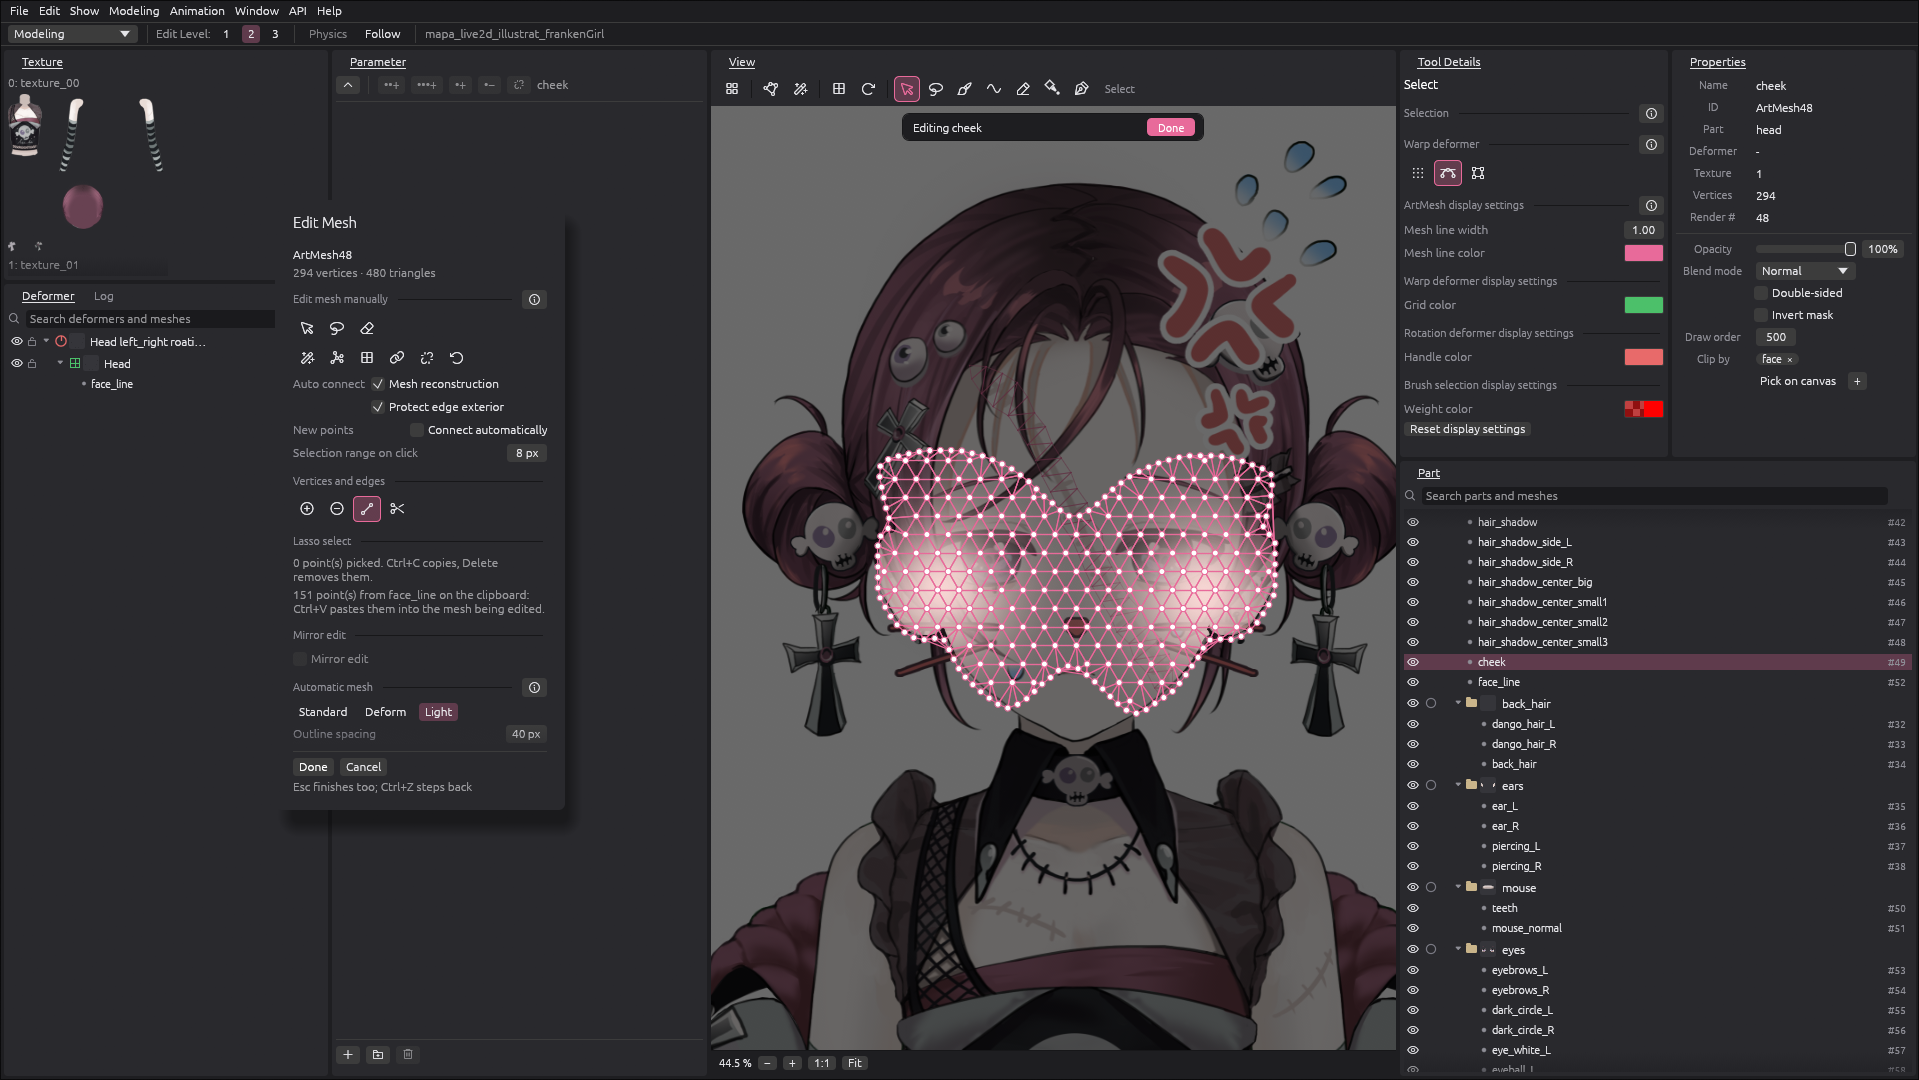
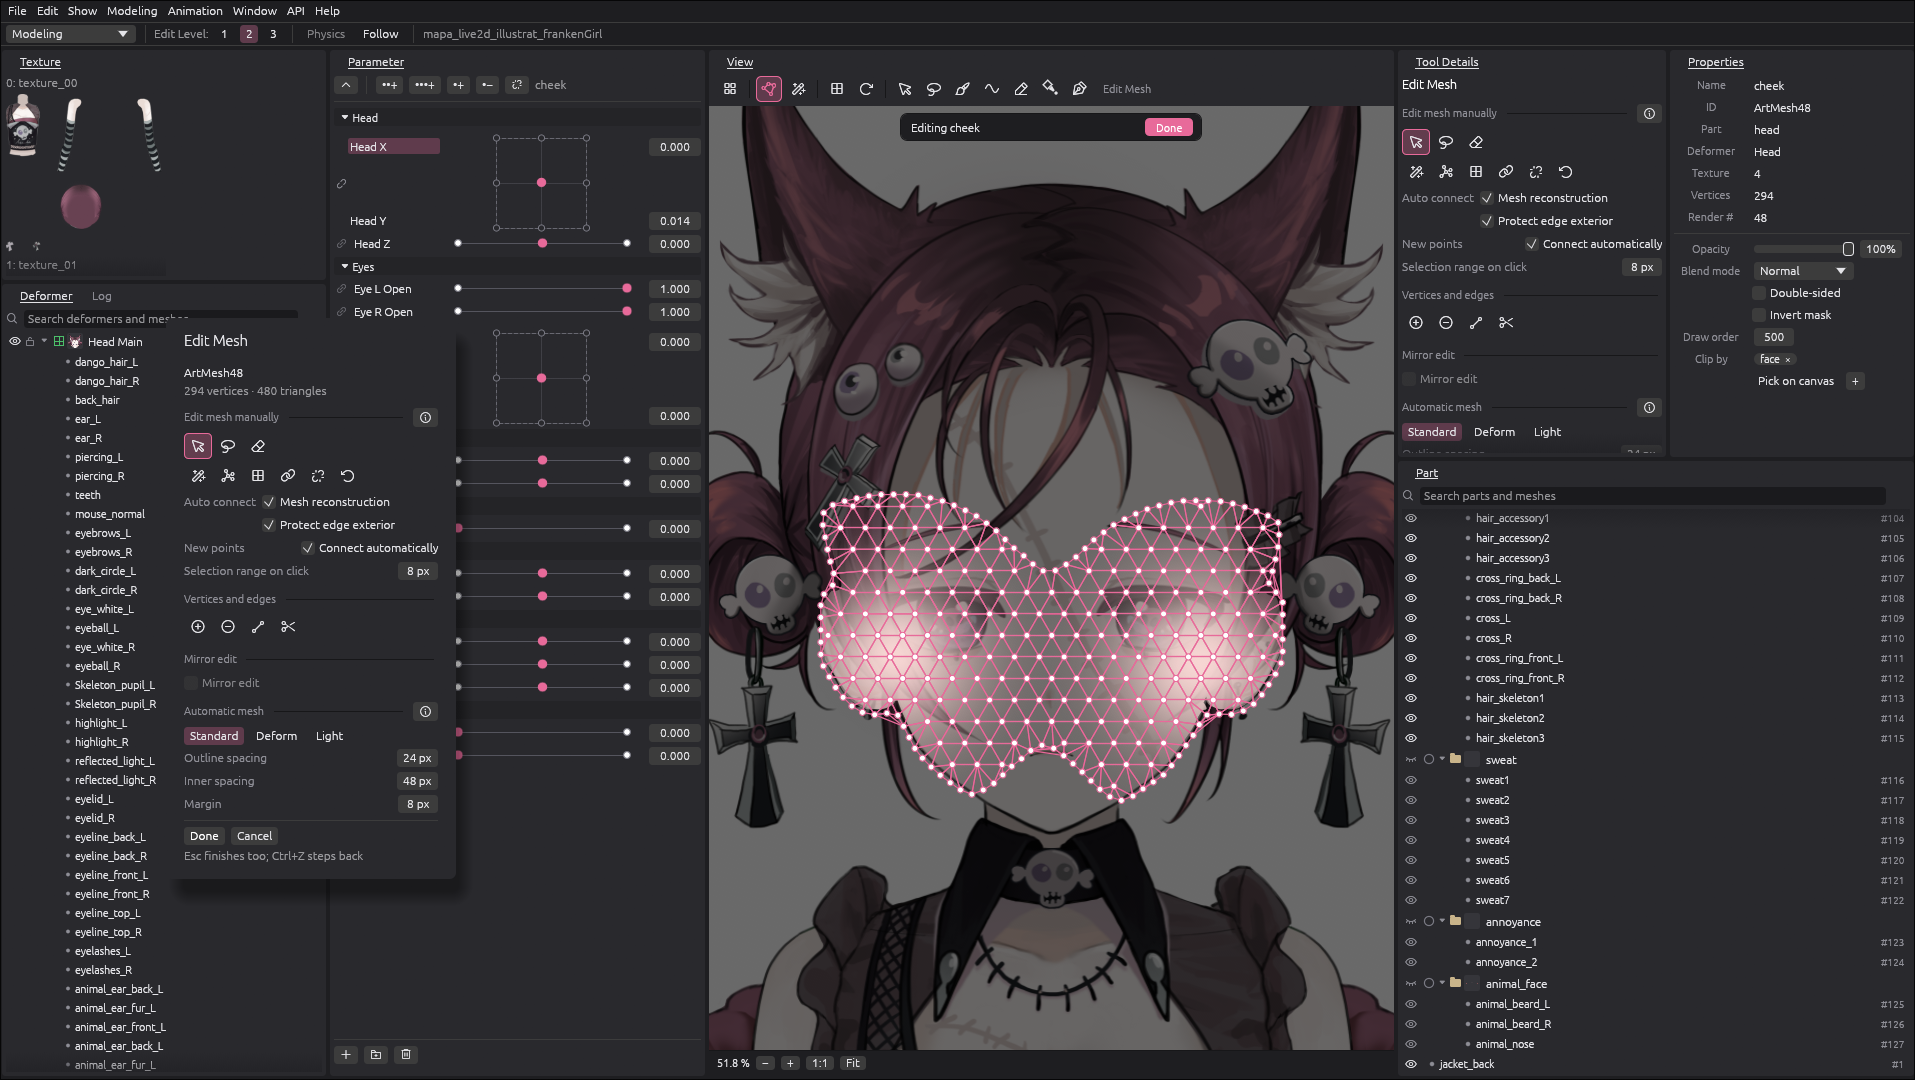
docs: retaken hero, Mesh Edit and rigging screenshots

diff --git a/README.md b/README.md
@@ -23,8 +23,8 @@ runs in VTube Studio. On Windows, macOS and Linux.
 </div>
 
 <p align="center">
-  <img src="docs/media/hero.png" alt="The Ayatsuri2D editor with a model being rigged: the face mesh under a head warp deformer, with the deformer tree and parts" width="900">
-  <br>A model in the editor: mesh wireframe, the deformer tree and parts.
+  <img src="docs/media/hero.png" alt="The Ayatsuri2D editor with a rigged model: the face mesh, parameter folders with 2D pads, the deformer tree and parts" width="900">
+  <br>A rigged model in the editor: mesh wireframe, keyed parameters in folders, the deformer tree and parts.
   <br>Model art by <a href="https://www.pixiv.net/users/99163365"><b>マパ*MAPA</b></a> (pixiv ID 99163365), used with permission. Thank you!
 </p>
 
@@ -120,7 +120,7 @@ integrated graphics** opens in 1.6 seconds, uses 486 MB of memory and about
 ### Rigging
 
 <p align="center">
-  <img src="docs/media/rigging.png" alt="A warp deformer on the head with its Bezier handles, keyed to the Head X parameter" width="860">
+  <img src="docs/media/rigging.png" alt="The Head Main warp deformer with its Bezier handles, keyed to the head parameters, over the whole model" width="860">
 </p>
 <p align="center">Model art by <a href="https://www.pixiv.net/users/99163365"><b>マパ*MAPA</b></a> (pixiv ID 99163365), used with permission. Thank you!</p>
 
